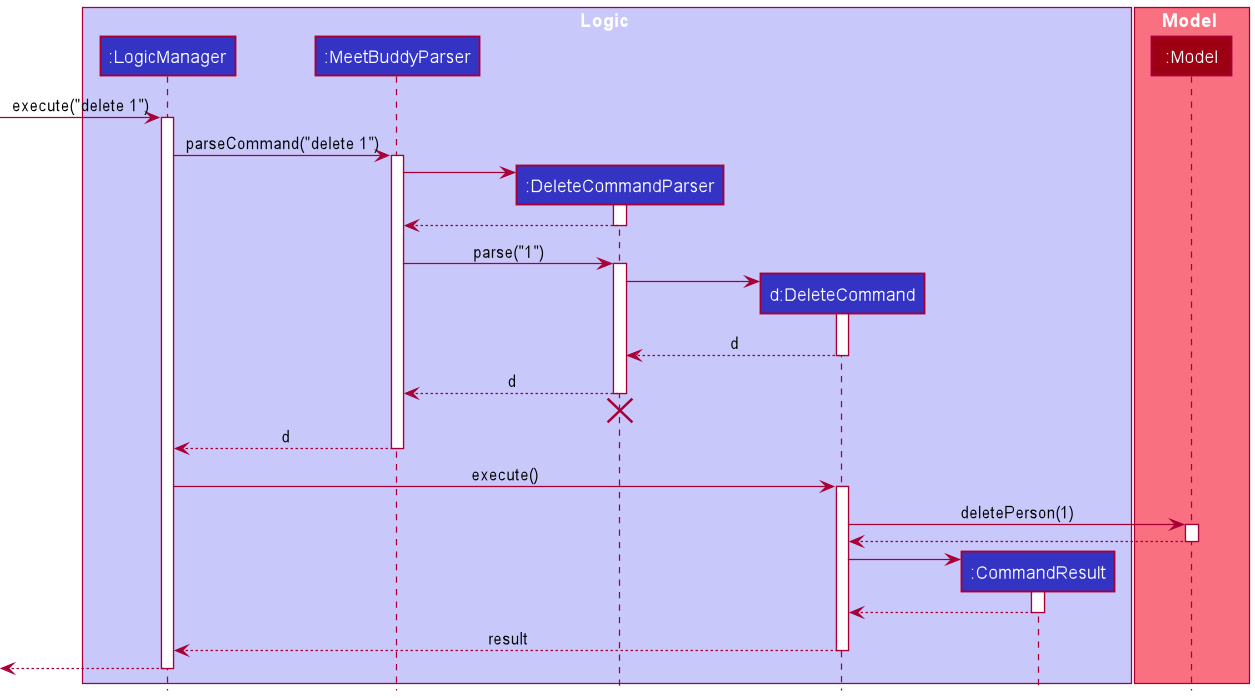
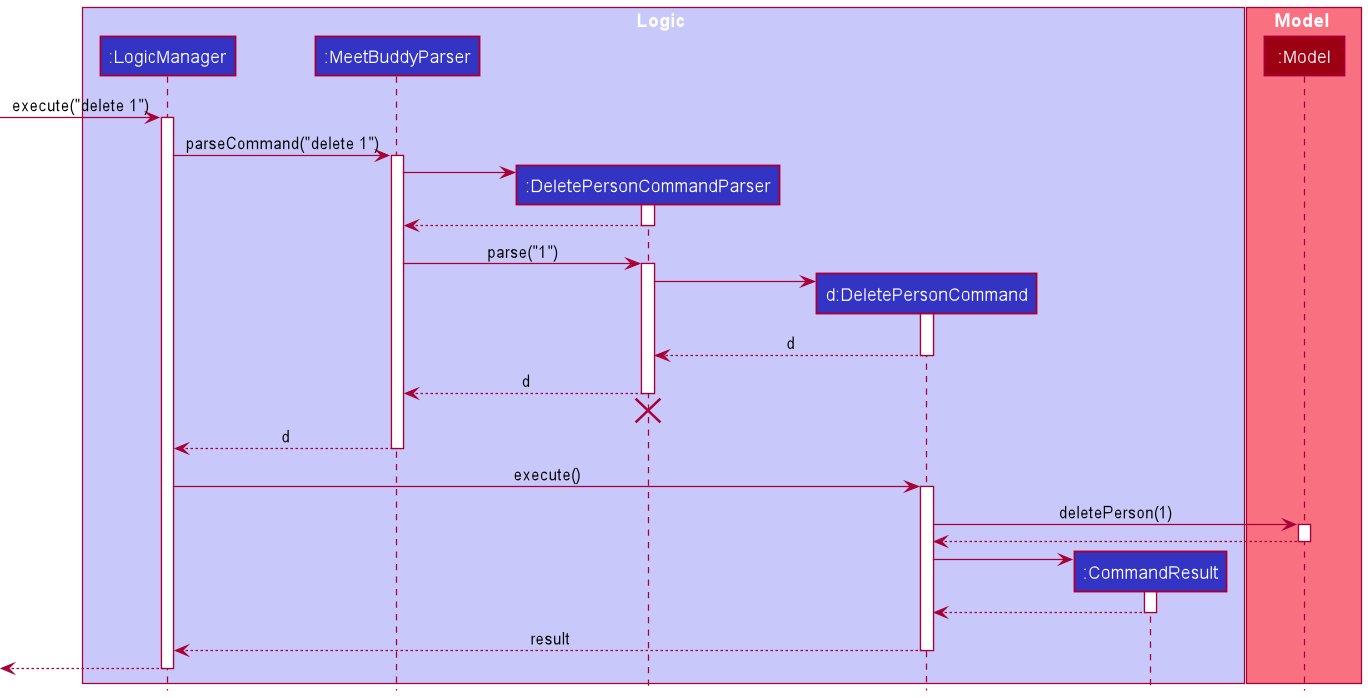
Update minor typos in DG and sequence diagram

diff --git a/docs/DeveloperGuide.md b/docs/DeveloperGuide.md
@@ -105,7 +105,7 @@ Given below is the Sequence Diagram for interactions within the `Logic` componen
 
 ![Interactions Inside the Logic Component for the `delete 1` Command](images/DeleteSequenceDiagram.png)
 
-<div markdown="span" class="alert alert-info">:information_source: **Note:** The lifeline for `DeleteCommandParser` should end at the destroy marker (X) but due to a limitation of PlantUML, the lifeline reaches the end of diagram.
+<div markdown="span" class="alert alert-info">:information_source: **Note:** The lifeline for `DeletePersonCommandParser` should end at the destroy marker (X) but due to a limitation of PlantUML, the lifeline reaches the end of diagram.
 </div>
 
 
